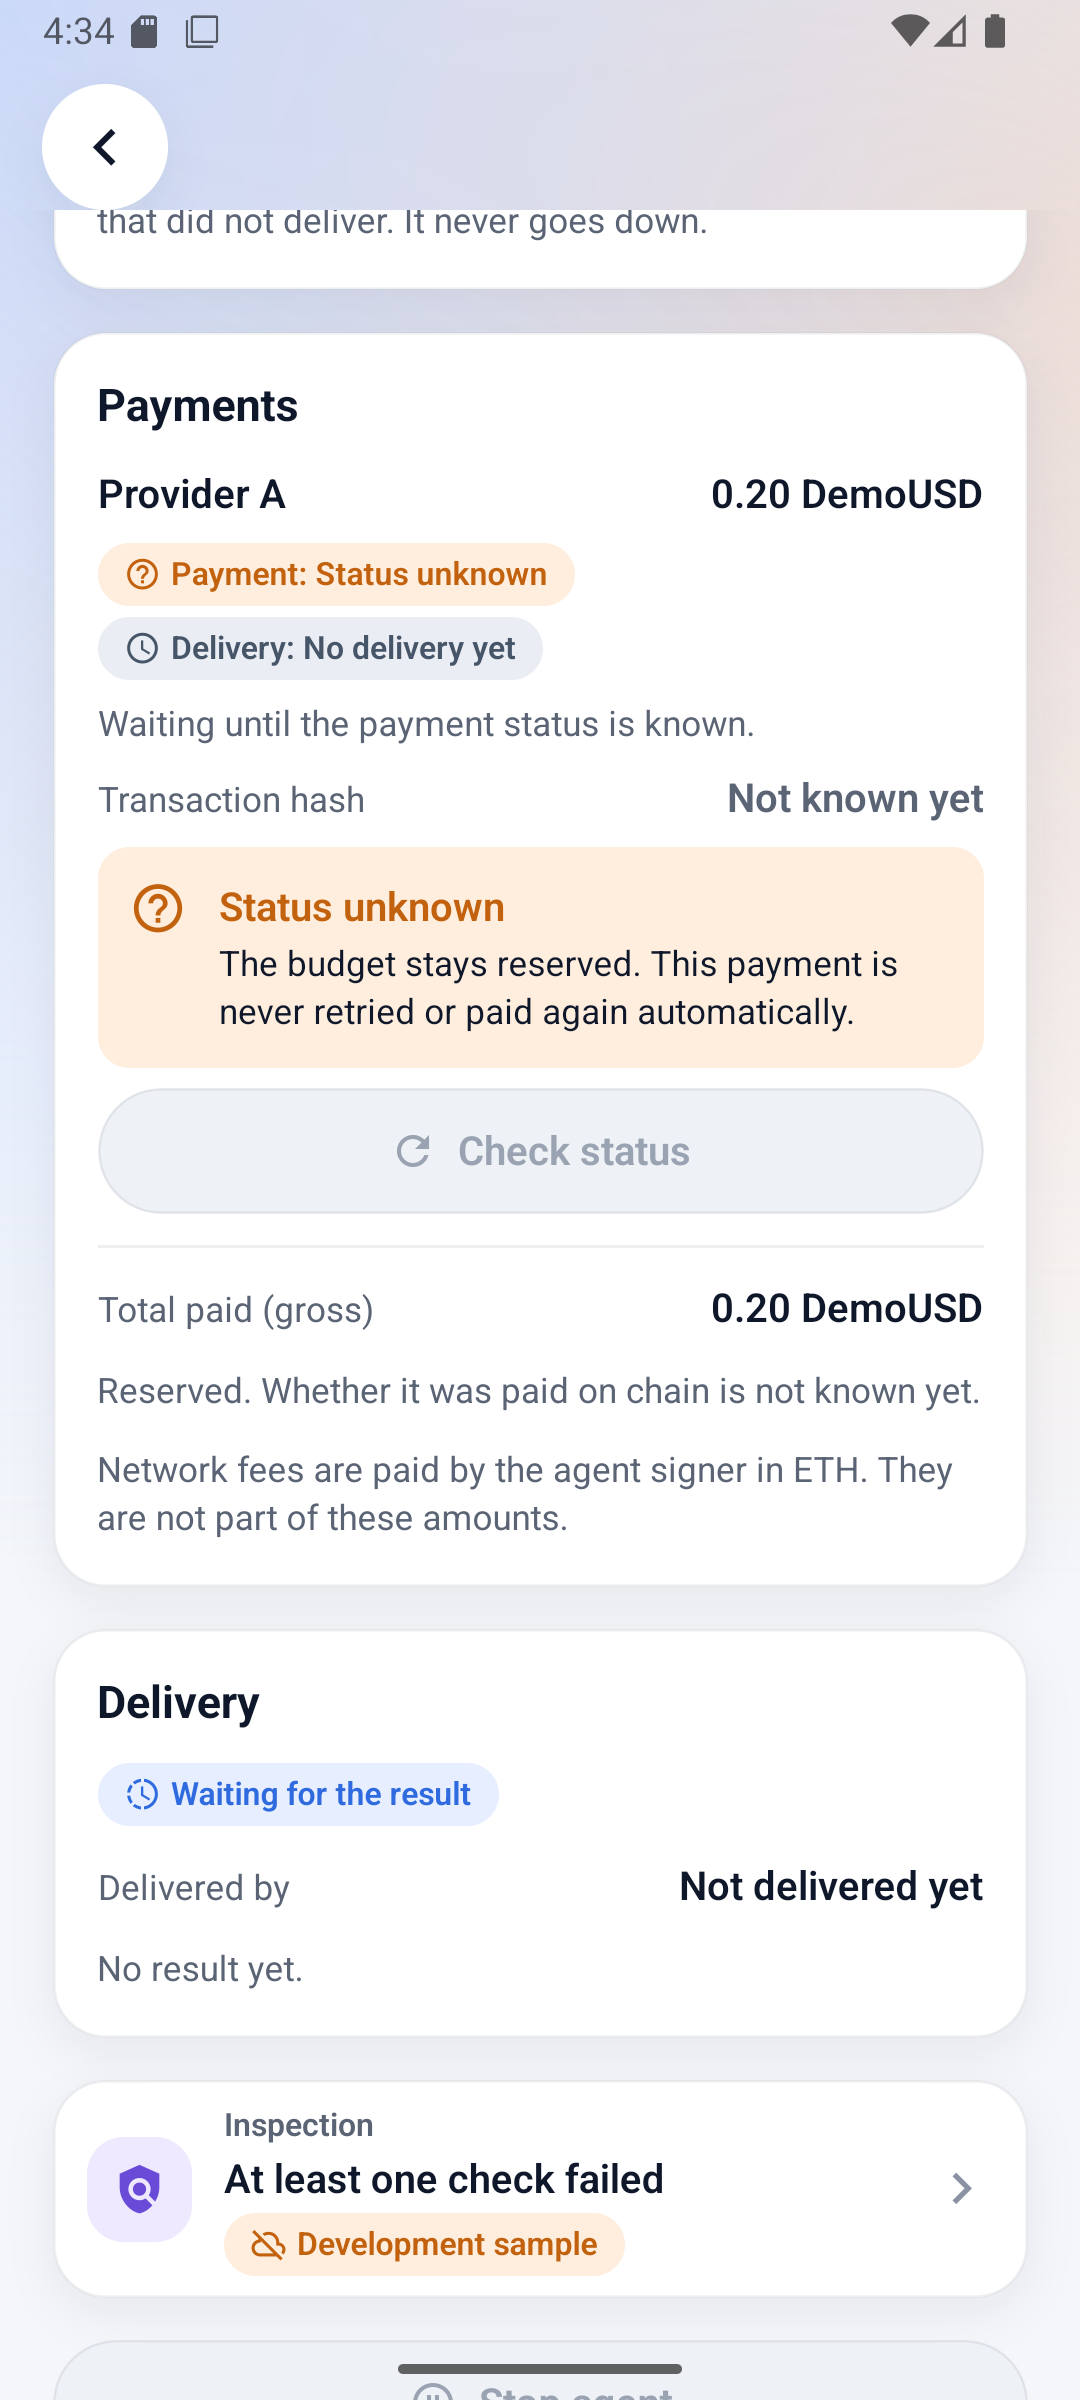
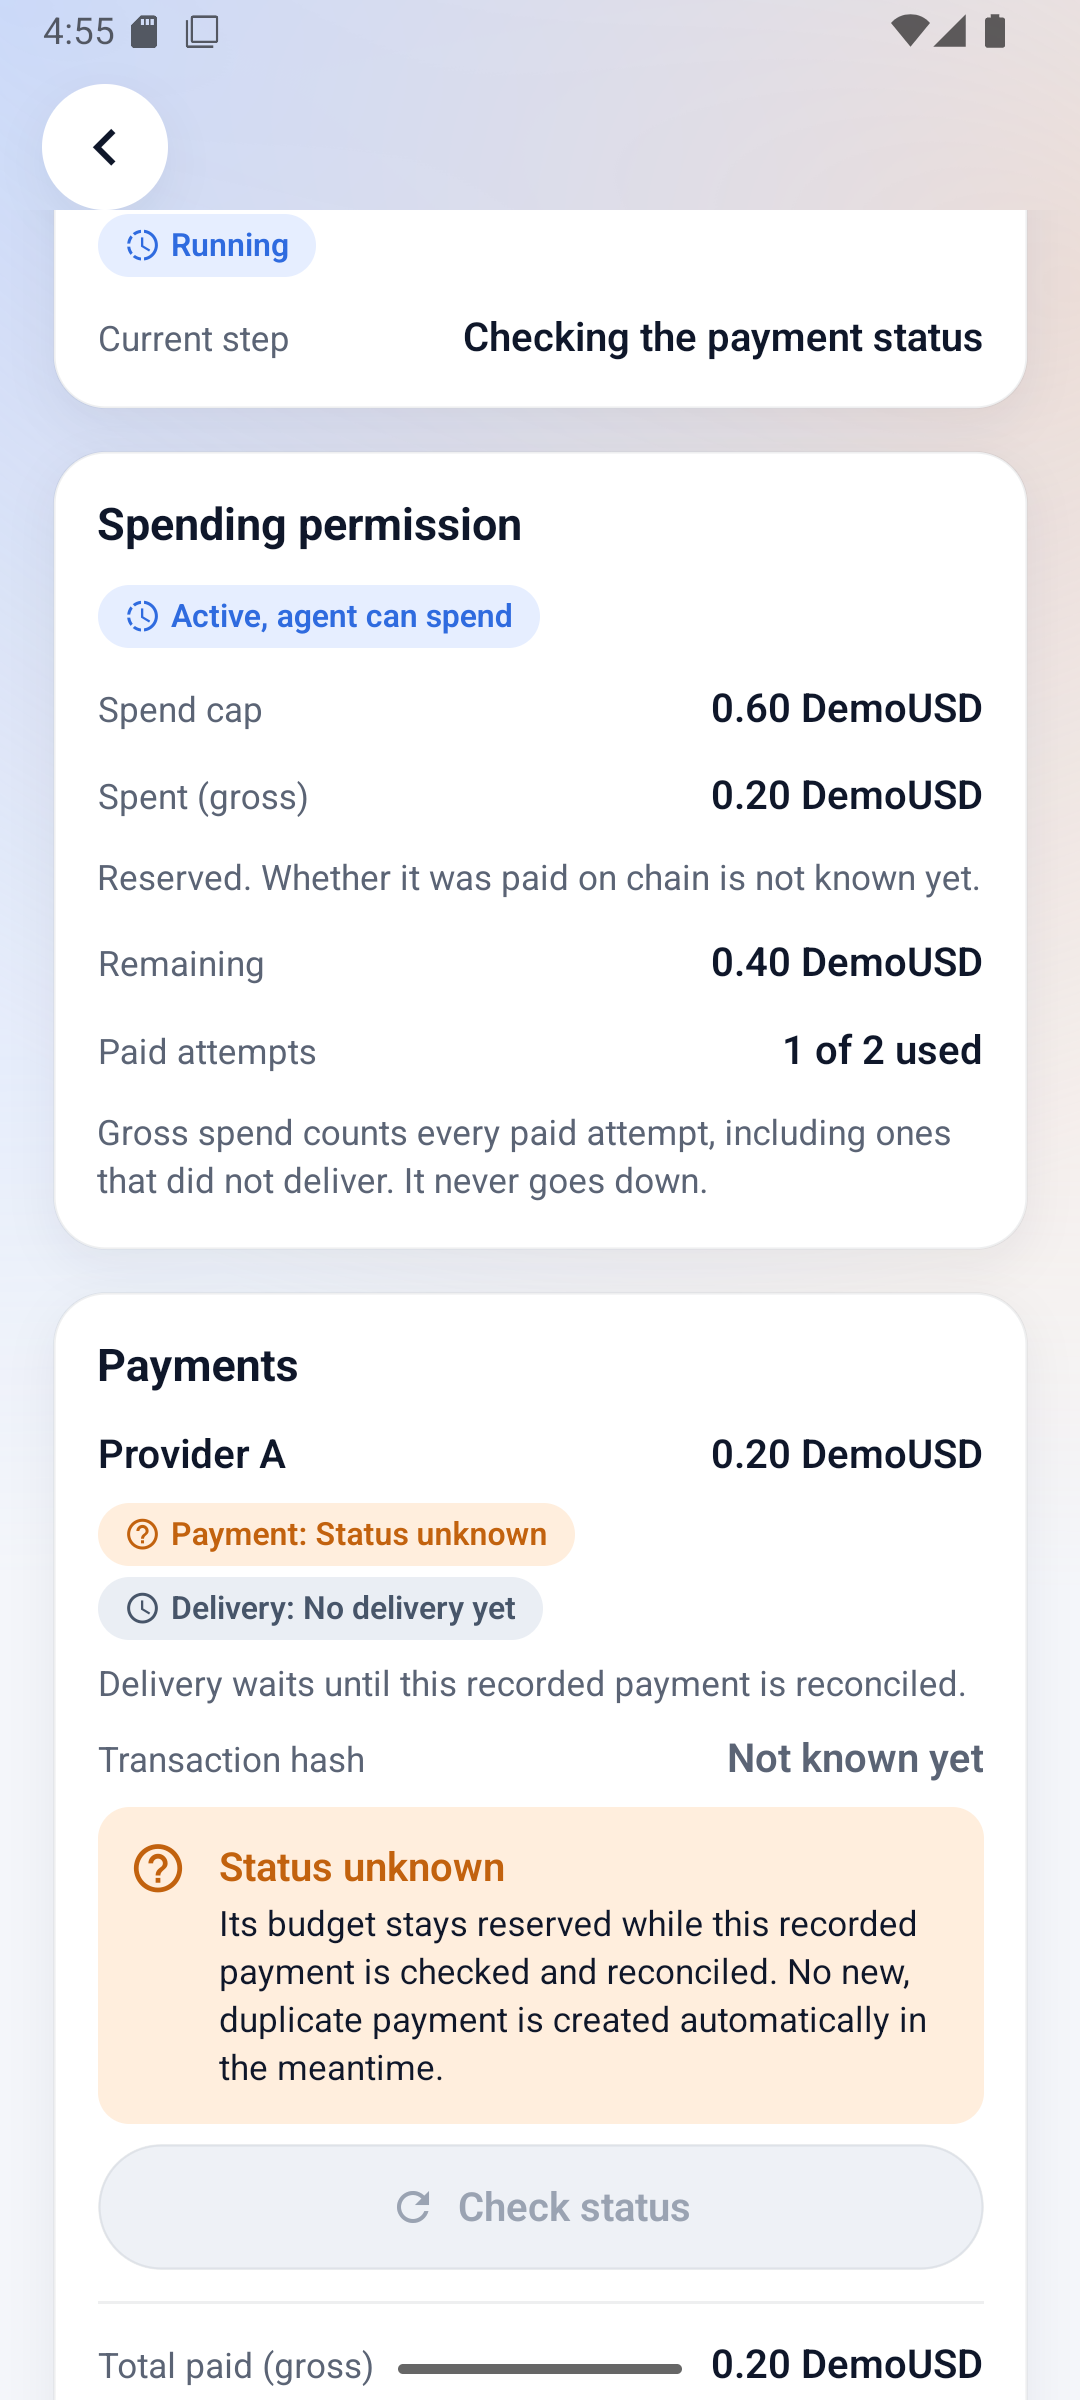
fix(mobile): describe unknown payments as reconciled, not permanently unretried (UI-07)

diff --git a/apps/mobile/src/screens/Task.tsx b/apps/mobile/src/screens/Task.tsx
@@ -199,8 +199,9 @@ function PaymentRow({
           <View style={styles.calloutText}>
             <Text style={styles.calloutTitle}>Status unknown</Text>
             <Text style={styles.calloutBody}>
-              The budget stays reserved. This payment is never retried or paid
-              again automatically.
+              Its budget stays reserved while this recorded payment is checked
+              and reconciled. No new, duplicate payment is created automatically
+              in the meantime.
             </Text>
           </View>
         </View>

diff --git a/apps/mobile/src/config/taskStatus.ts b/apps/mobile/src/config/taskStatus.ts
@@ -67,7 +67,8 @@ export const ACTION_INFO: Record<ActionState, StateInfo> = {
   DENIED: { label: "Denied before signing", group: "problem" },
   REJECTED: { label: "Rejected by you", group: "ended" },
   REVERTED: { label: "Failed on chain", group: "problem" },
-  // The reservation is kept and the payment is never retried automatically.
+  // The reservation is kept while the recorded operation is reconciled; no
+  // new, duplicate payment is created automatically (plan S4, S5).
   UNKNOWN: { label: "Status unknown", group: "unknown" },
 };
 

diff --git a/apps/mobile/src/config/taskSamples.ts b/apps/mobile/src/config/taskSamples.ts
@@ -226,7 +226,8 @@ export const SAMPLE_TASKS: readonly SampleTask[] = [
         state: "UNKNOWN",
         delivery: "NONE",
         hash: "Not known yet",
-        deliveryNote: "Waiting until the payment status is known.",
+        deliveryNote:
+          "Delivery waits until this recorded payment is reconciled.",
       },
     ],
     delivery: "PENDING",
